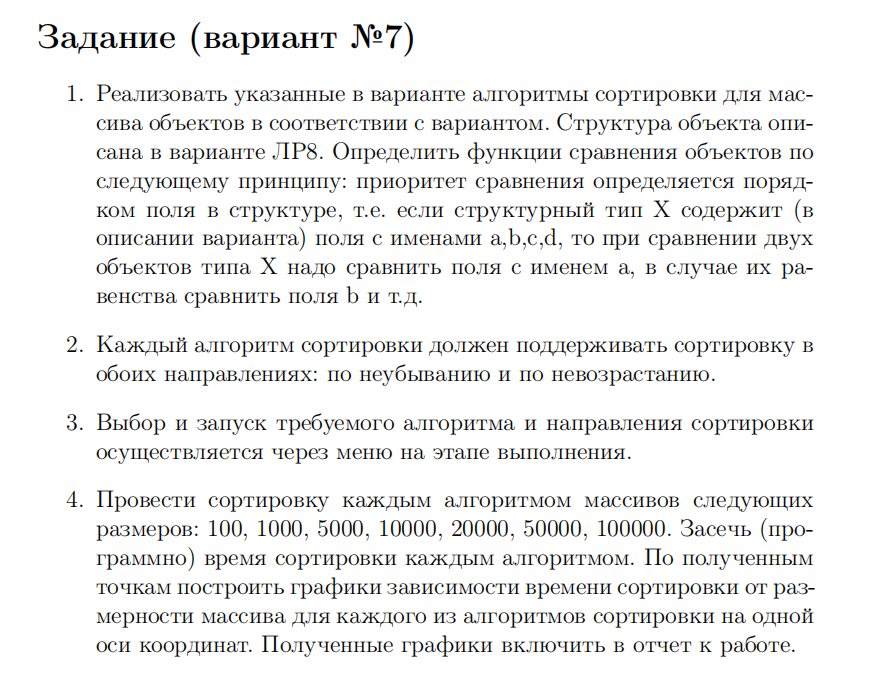
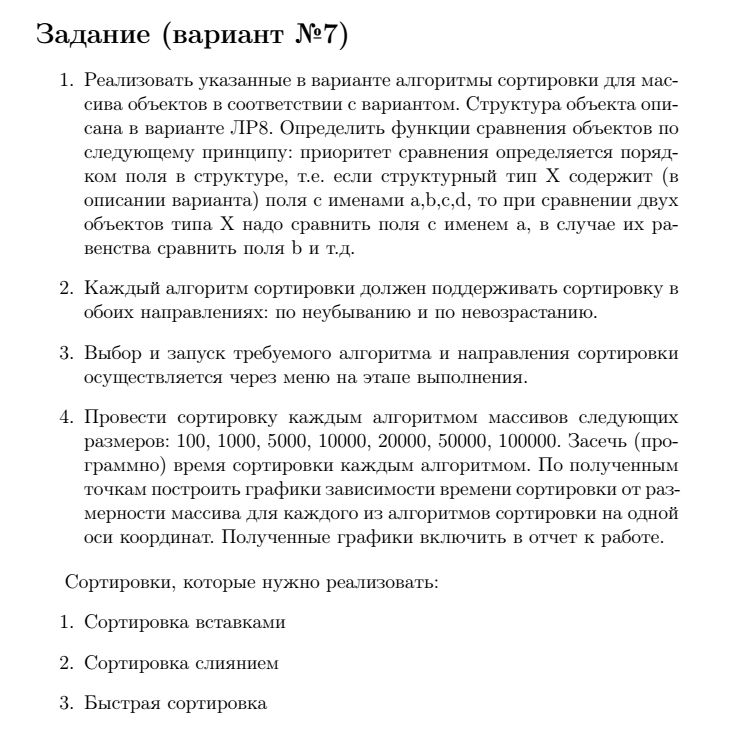
lab9

Changed region(s): [[0.0305, 0.0308, 0.9456, 0.9853]]

diff --git a/hw9/Отчет/Отчет.tex b/hw9/Отчет/Отчет.tex
@@ -81,6 +81,13 @@
 	\item Провести сортировку каждым алгоритмом массивов следующих размеров: 100, 1000, 5000, 10000, 20000, 50000, 100000. Засечь (программно) время сортировки  каждым алгоритмом. По полученным точкам построить графики зависимости времени сортировки от размерности массива для каждого из алгоритмов сортировки на одной оси координат. Полученные графики включить в отчет к работе.
 \end{enumerate}
 
+Сортировки, которые нужно реализовать:
+\begin{enumerate}
+\item Сортировка вставками
+\item Сортировка слиянием
+\item Быстрая сортировка
+\end{enumerate}
+
 
 \newpage
 

diff --git a/hw9/README.md b/hw9/README.md
@@ -1,4 +1,4 @@
-
+![hw91.png](../images/hw91.png)
 
 Время работы сортировок:
 ![hw92.png](../images/hw92.png)
